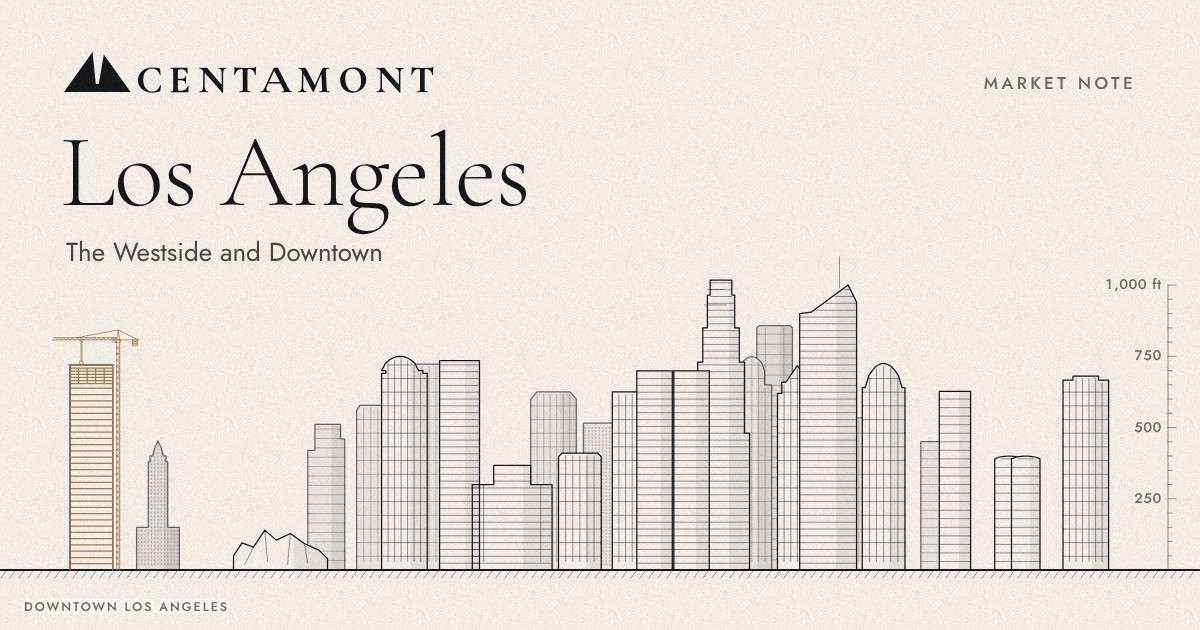
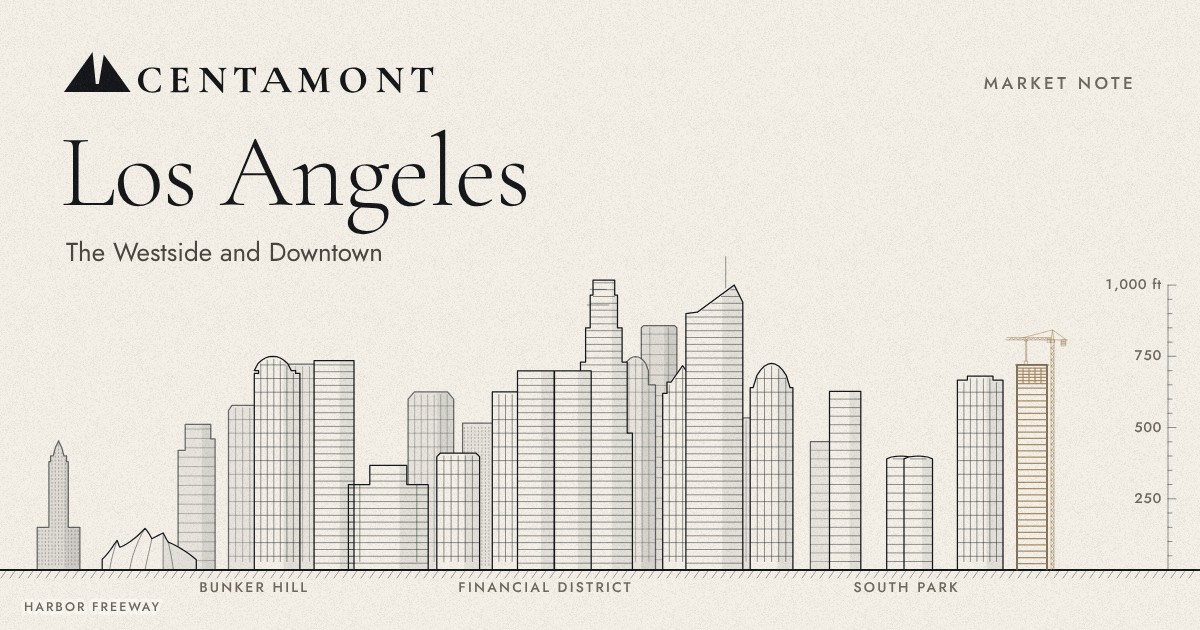
Los Angeles share card redrawn from the new skyline
Claude-Session: https://claude.ai/code/session_01APZCKUHgW3C4bktZgUyU84

Changed region(s): [[0.0308, 0.4222, 0.925, 0.9952]]

diff --git a/los-angeles.html b/los-angeles.html
@@ -19,7 +19,7 @@
 <meta property="og:url" content="https://centamont.com/los-angeles.html">
 <meta property="og:title" content="Los Angeles: the Westside and Downtown · Centamont">
 <meta property="og:description" content="New condominiums in Los Angeles, planned with Dallas: the Westside and Downtown, how California’s public report shapes a sale, and its transfer taxes.">
-<meta property="og:image" content="https://centamont.com/og-los-angeles.jpg?v=2">
+<meta property="og:image" content="https://centamont.com/og-los-angeles.jpg?v=3">
 <meta property="og:image:width" content="1200">
 <meta property="og:image:height" content="630">
 <meta property="og:image:alt" content="Los Angeles: a drawn elevation of Downtown, with the Centamont wordmark">
